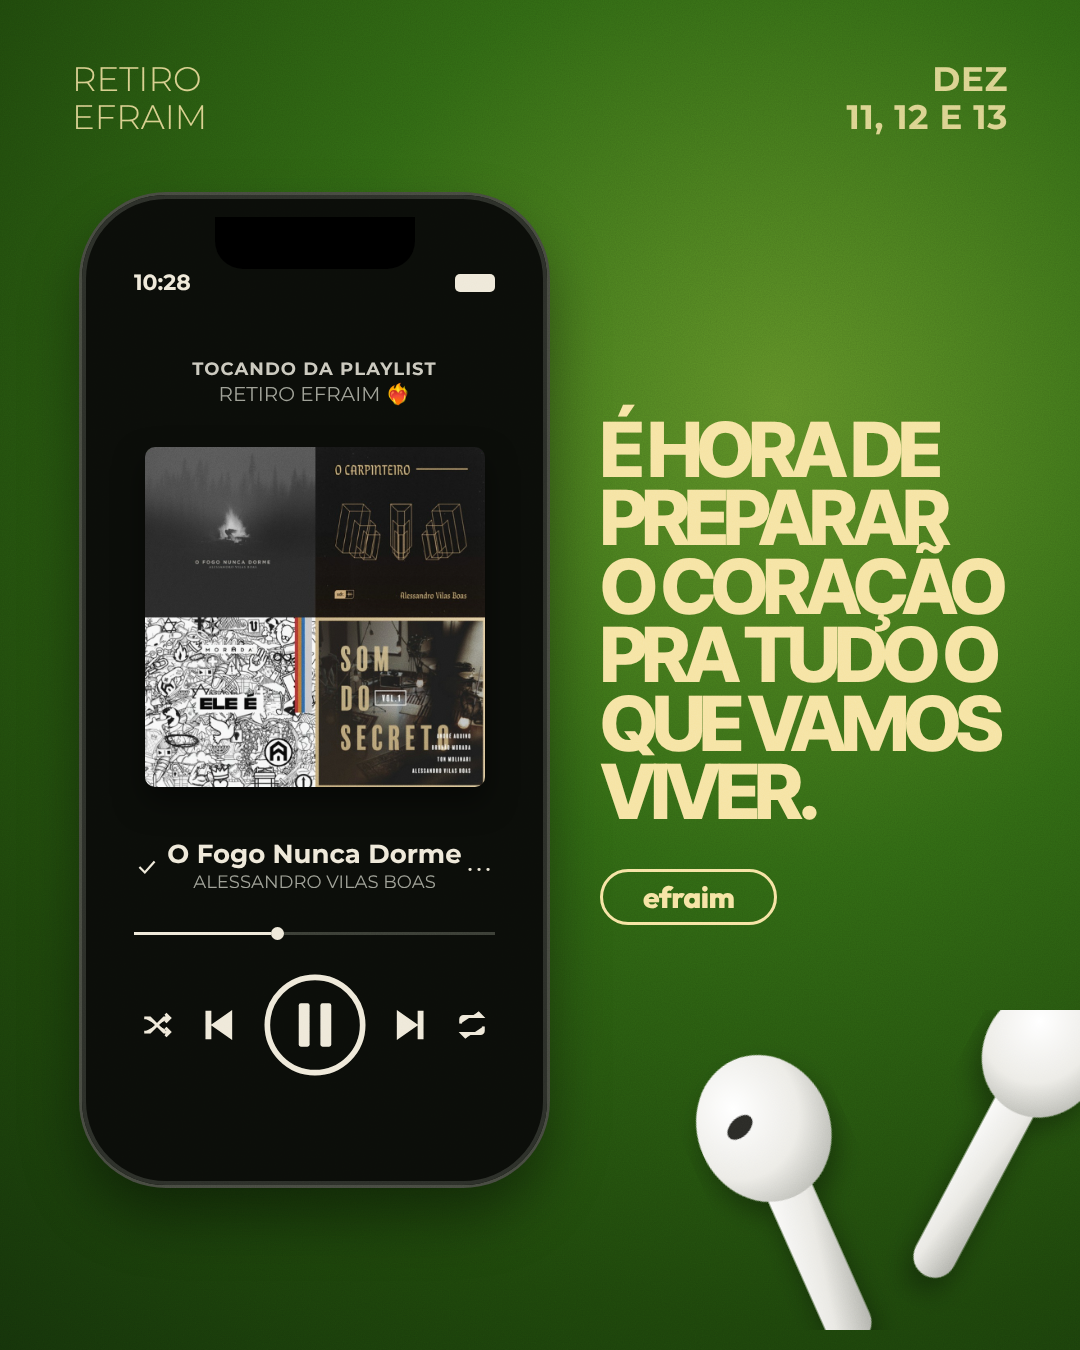
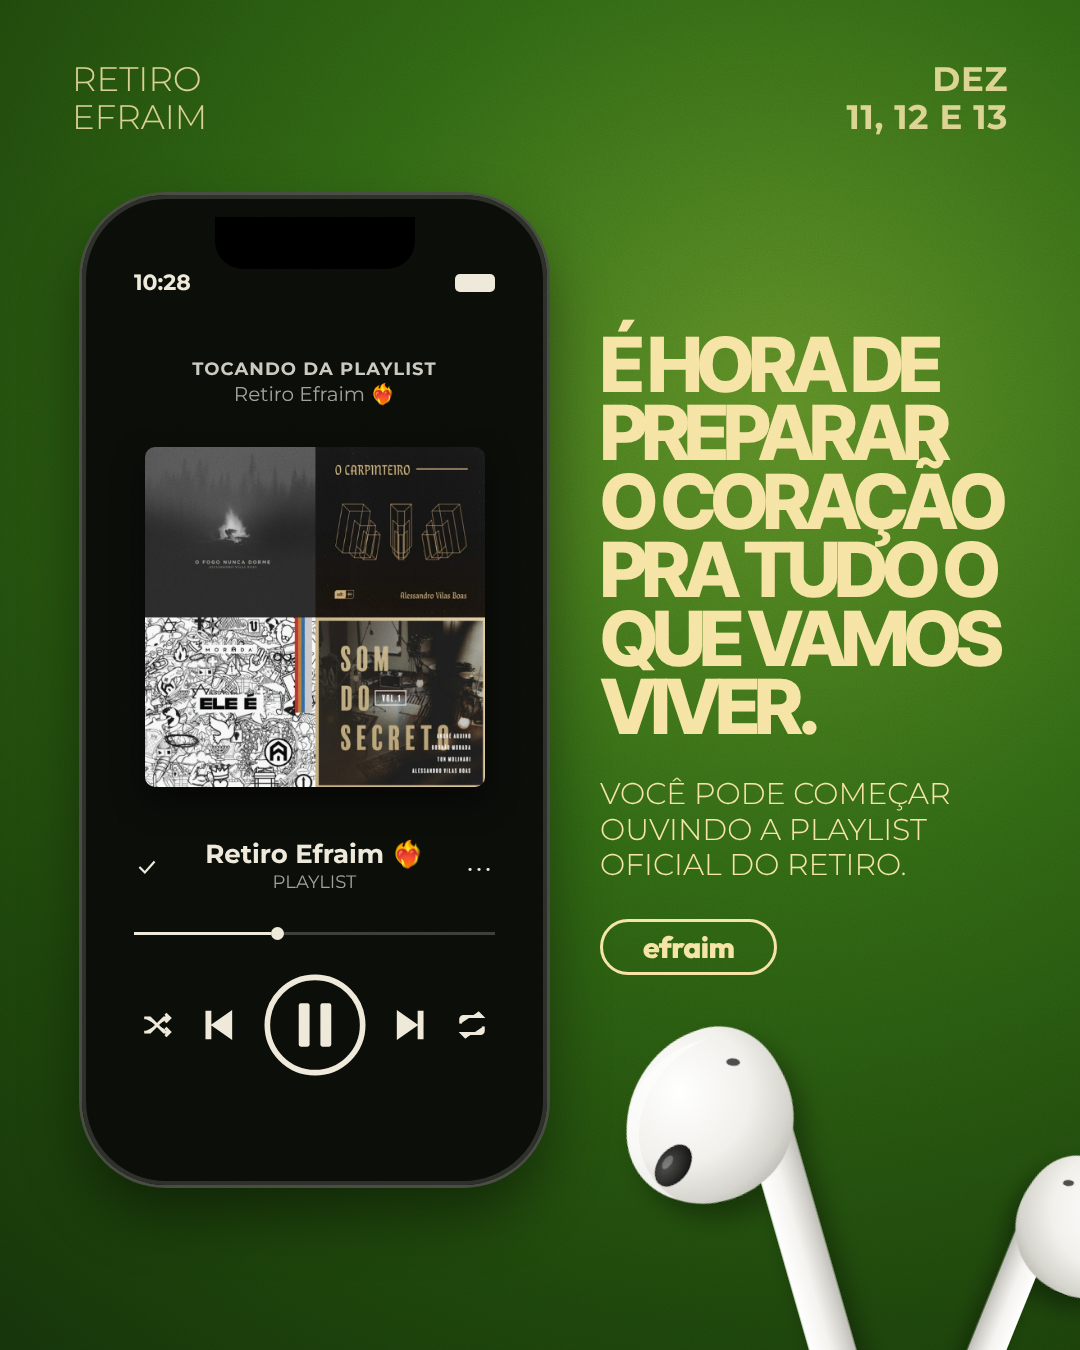
Carrossel: novo fone, texto da playlist no slide 2 e bilhete de embarque no slide 4
Claude-Session: https://claude.ai/code/session_01LeUD47ZwT7dCEC6s1yGkTC

diff --git a/retiro-efraim/artes/carrossel-faltam-poucos-dias/04-sua-passagem.html b/retiro-efraim/artes/carrossel-faltam-poucos-dias/04-sua-passagem.html
@@ -1,0 +1,42 @@
+<!doctype html><meta charset="utf-8"><link rel="stylesheet" href="estilo-cnct.css">
+<style>
+.bokeh{position:absolute;inset:-80px;filter:blur(70px);background:
+ radial-gradient(circle at 15% 10%,#C29B27 0 9%,transparent 18%),radial-gradient(circle at 55% 5%,#F6E3A1 0 7%,transparent 15%),
+ radial-gradient(circle at 85% 18%,#7D9230 0 10%,transparent 20%),radial-gradient(circle at 10% 45%,#8E5A1A 0 12%,transparent 24%),
+ radial-gradient(circle at 25% 85%,#5E7F25 0 12%,transparent 22%),radial-gradient(circle at 45% 92%,#A3BFD9 0 8%,transparent 16%),
+ radial-gradient(circle at 70% 80%,#7D9230 0 10%,transparent 20%),radial-gradient(circle at 95% 70%,#C29B27 0 8%,transparent 16%),
+ linear-gradient(160deg,#4B4A22,#2E3D14 50%,#3D3016)}
+.bilhete{position:absolute;left:150px;top:560px;width:800px;height:420px;display:grid;grid-template-columns:1fr 200px;transform:rotate(-4deg);filter:drop-shadow(0 26px 30px rgba(0,0,0,.4))}
+.bilhete .corpo,.bilhete .canhoto{background:var(--papel);position:relative;
+ -webkit-mask:radial-gradient(circle 22px at 100% 0,transparent 98%,#000) top right/100% 51% no-repeat,radial-gradient(circle 22px at 100% 100%,transparent 98%,#000) bottom right/100% 51% no-repeat}
+.bilhete .canhoto{-webkit-mask:radial-gradient(circle 22px at 0 0,transparent 98%,#000) top left/100% 51% no-repeat,radial-gradient(circle 22px at 0 100%,transparent 98%,#000) bottom left/100% 51% no-repeat;border-left:4px dashed #CDBB98;display:grid;place-items:center}
+.faixa{height:76px;background:var(--folha);display:flex;align-items:center;justify-content:space-between;padding:0 34px;color:var(--papel);font:700 22px/1 var(--f-titulo);letter-spacing:.24em;text-transform:uppercase}
+.campos{display:grid;grid-template-columns:1fr 1fr;gap:26px 30px;padding:30px 34px}
+.campos div{display:grid;gap:6px}
+.campos small{font:500 16px/1 var(--f-titulo);letter-spacing:.22em;text-transform:uppercase;color:#7A6E55}
+.campos b{font:800 30px/1.05 "Inter Tight",sans-serif;letter-spacing:-0.04em;text-transform:uppercase;color:var(--pasto)}
+.canhoto .ano{font:800 92px/1 "Outfit",sans-serif;color:var(--bordado);letter-spacing:-0.04em;transform:rotate(-90deg)}
+</style>
+<div class="arte grao">
+  <div class="bokeh"></div>
+  <div class="abs" style="left:0;right:0;top:130px;display:grid;justify-items:center;gap:36px;text-align:center">
+    <span class="pilula">efraim</span>
+    <p class="tt" style="--s:100px">Sua passagem<br>já está na mão.</p>
+  </div>
+  <div class="bilhete">
+    <div class="corpo">
+      <div class="faixa"><span>Bilhete de embarque</span><span>Nº 026</span></div>
+      <div class="campos">
+        <div><small>Passageiro</small><b>Você</b></div>
+        <div><small>Destino</small><b>Retiro Efraim</b></div>
+        <div><small>Embarque</small><b>11 dez</b></div>
+        <div><small>Retorno</small><b>13 dez</b></div>
+        <div style="grid-column:span 2"><small>Bagagem</small><b>Bíblia, caderno e o coração aberto</b></div>
+      </div>
+    </div>
+    <div class="canhoto"><span class="ano">’26</span></div>
+  </div>
+  <p class="leve abs" style="left:110px;right:110px;top:1070px;text-align:center;font-size:32px">São três dias longe da correria para ser encontrado por Deus. Arrume a mala e venha.</p>
+  <div class="cnt" style="left:60px;bottom:40px;font-size:28px">Retiro<br>Efraim</div>
+  <div class="cnt" style="right:60px;bottom:40px;text-align:right;font-size:28px"><b>Dez</b><br><b>11, 12 e 13</b></div>
+</div>

diff --git a/retiro-efraim/artes/carrossel-faltam-poucos-dias/02-preparar-o-coracao.html b/retiro-efraim/artes/carrossel-faltam-poucos-dias/02-preparar-o-coracao.html
@@ -24,9 +24,9 @@
   <div class="cel">
     <div class="ilha"></div>
     <div class="st"><span>10:28</span><i></i></div>
-    <div class="topo"><b>Tocando da playlist</b>RETIRO EFRAIM ❤🔥</div>
+    <div class="topo"><b>Tocando da playlist</b>Retiro Efraim ❤🔥</div>
     <div class="capa"></div>
-    <div class="faixa"><svg width="26" height="26" viewBox="0 0 24 24" fill="none" stroke="#EEE8D8" stroke-width="2"><path d="M5 12l5 5 9-10"/></svg><div><b>O Fogo Nunca Dorme</b><small>Alessandro Vilas Boas</small></div><span style="font-size:28px;letter-spacing:2px">···</span></div>
+    <div class="faixa"><svg width="26" height="26" viewBox="0 0 24 24" fill="none" stroke="#EEE8D8" stroke-width="2"><path d="M5 12l5 5 9-10"/></svg><div><b>Retiro Efraim ❤🔥</b><small>Playlist</small></div><span style="font-size:28px;letter-spacing:2px">···</span></div>
     <div class="barra"></div>
     <div class="ctrl">
       <svg width="34" height="34" viewBox="0 0 24 24" fill="none" stroke-width="2"><path d="M3 7h4l10 10h4M3 17h4l10-10h4M18 4l3 3-3 3M18 14l3 3-3 3"/></svg>
@@ -36,15 +36,11 @@
       <svg width="34" height="34" viewBox="0 0 24 24" fill="none" stroke-width="2"><path d="M4 11V8a2 2 0 0 1 2-2h13l-3-3M20 13v3a2 2 0 0 1-2 2H5l3 3"/></svg>
     </div>
   </div>
-  <div class="abs" style="left:600px;top:415px;width:440px;display:grid;gap:44px;justify-items:start">
+  <div class="abs" style="left:600px;top:330px;width:440px;display:grid;gap:36px;justify-items:start">
     <p class="tt" style="--s:76px">É hora de<br>preparar<br>o coração<br>pra tudo o<br>que vamos<br>viver.</p>
+    <p class="leve" style="font-size:30px;line-height:1.18">Você pode começar ouvindo a playlist oficial do retiro.</p>
     <span class="pilula">efraim</span>
   </div>
-  <svg class="abs" style="left:640px;top:1010px;width:470px" viewBox="0 0 440 300">
-    <defs><linearGradient id="fone" x1="0" y1="0" x2="1" y2="1"><stop offset="0" stop-color="#FFFFFF"/><stop offset=".55" stop-color="#E9E8E3"/><stop offset="1" stop-color="#A9AAA3"/></linearGradient>
-    <radialGradient id="cab" cx=".35" cy=".3" r=".8"><stop offset="0" stop-color="#FFFFFF"/><stop offset=".6" stop-color="#ECEBE6"/><stop offset="1" stop-color="#B2B3AC"/></radialGradient>
-    <filter id="sh"><feDropShadow dx="0" dy="14" stdDeviation="12" flood-color="#000" flood-opacity=".35"/></filter></defs>
-    <g filter="url(#sh)" transform="rotate(-24 120 120)"><rect x="96" y="120" width="44" height="210" rx="22" fill="url(#fone)"/><ellipse cx="120" cy="110" rx="62" ry="70" fill="url(#cab)"/><ellipse cx="100" cy="100" rx="14" ry="9" fill="#2A2B27" transform="rotate(-20 100 100)"/></g>
-    <g filter="url(#sh)" transform="rotate(28 360 60)"><rect x="346" y="40" width="40" height="230" rx="20" fill="url(#fone)"/><ellipse cx="366" cy="34" rx="56" ry="62" fill="url(#cab)"/></g>
-  </svg>
+  <img class="abs" src="../../elementos/fone.svg" alt="" style="width:250px;left:640px;top:1000px;transform:rotate(-16deg)">
+  <img class="abs" src="../../elementos/fone.svg" alt="" style="width:200px;left:930px;top:1130px;transform:rotate(22deg) scaleX(-1)">
 </div>

diff --git a/retiro-efraim/README.md b/retiro-efraim/README.md
@@ -53,5 +53,5 @@ com as cores da identidade. Estilo em `estilo-cnct.css`.
 1. Faltam poucos dias / O que fazer antes do retiro?
 2. É hora de preparar o coração (celular tocando a Playlist Retiro Efraim '26)
 3. Ore pelo que ainda vai acontecer (troque o fundo por uma foto de adoração da igreja)
-4. O que tem alimentado o seu coração? (música, vídeo, conteúdo + telas de apps)
+4. Sua passagem já está na mão (bilhete de embarque do retiro)
 5. Preparar o seu coração é criar espaço (janela com a paisagem, Tiago 4:8)
